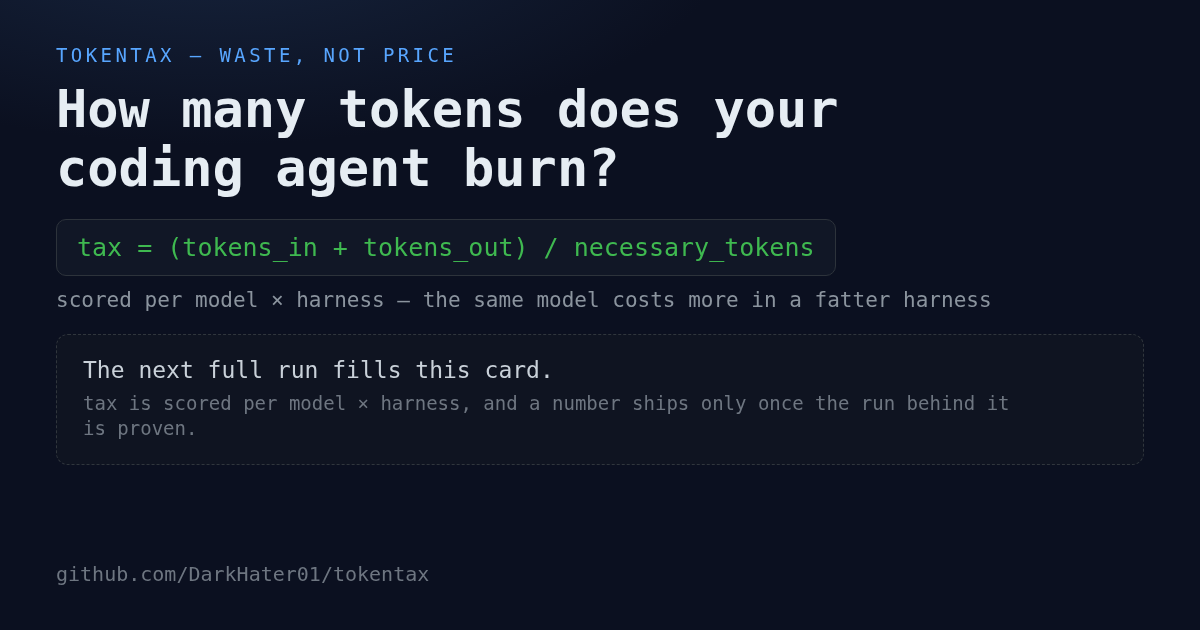
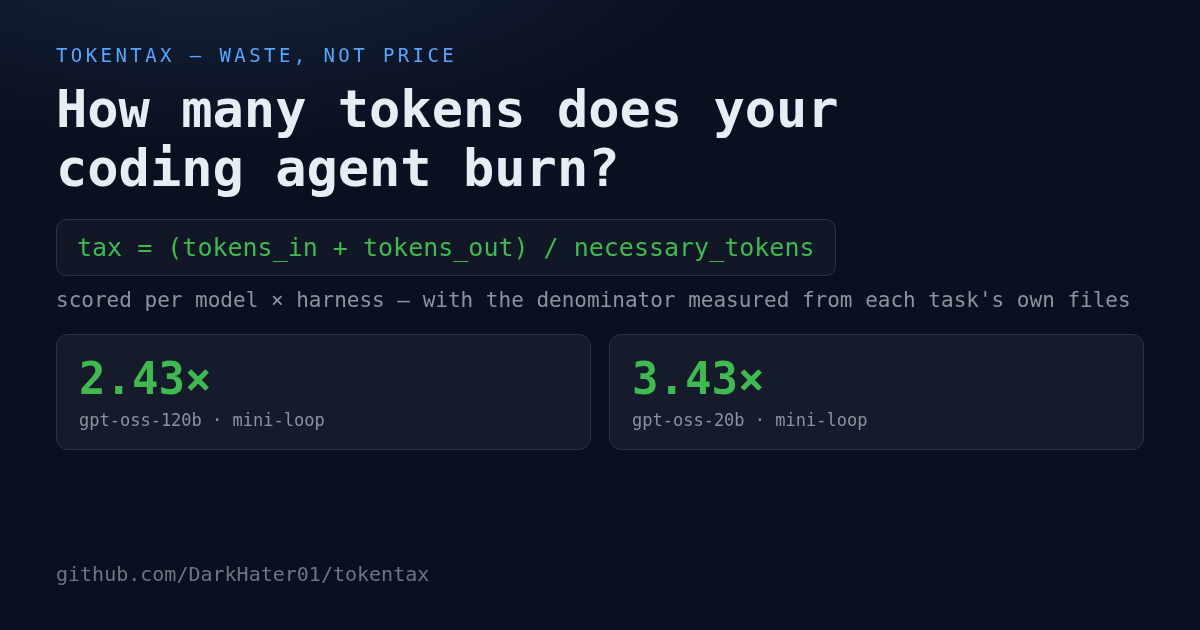
docs: the card and the post now carry the published run, and neither can invent one
The social card's rows used to be typed into social-data.json: the most shareable
artifact in the repo was the only one where a number could be handwritten. It now
reads data/results.json, the same file the README table and the badge come from, so
the card can only be stale, never invented. It shows the two published rows.

The launch post was written when nothing was scored. It now carries the finding with
the date on it -- 2.43x and 3.43x, i.e. 59% and 71% of the spend above the floor, and
a third of the small model's waste removed by the prompt alone -- and says the README
block wins if they drift. The harness FAQ no longer says "unknown because there is
one harness": it says what the second harness is, what one live run cost (10.5k
against 1.9k tokens), and why that is not a result yet -- the free tier's cap ran out
mid-measurement, which is exactly why the harness now drops throttled runs instead of
publishing them as model failures.

The readers section gained the honest ask: the harness axis needs ~630k tokens and
this repo runs on 200k/day.

diff --git a/docs/make-social.js b/docs/make-social.js
@@ -51,10 +51,31 @@ function rowsHtml(rows) {
   return `<div class="grid" style="grid-template-columns:repeat(${shown.length},1fr)">${cards}${more}</div>`;
 }
 
+// The card's numbers come from the same results file as the README table and the
+// badge. They used to be typed into social-data.json, which made the most shareable
+// artifact in the repo the only one where a number could be invented by hand.
+function publishedRows() {
+  const file = path.join(DIR, "..", "data", "results.json");
+  if (!fs.existsSync(file)) return [];
+  let data;
+  try {
+    data = JSON.parse(fs.readFileSync(file, "utf8"));
+  } catch {
+    return [];
+  }
+  return (Array.isArray(data.entries) ? data.entries : [])
+    .filter((e) => e?.vanilla && typeof e.vanilla.tax === "number")
+    .map((e) => ({
+      tax: `${e.vanilla.tax}\u00d7`,
+      model: String(e.model).split("/").pop(),
+      harness: String(e.harness),
+    }));
+}
+
 function render() {
   const data = JSON.parse(fs.readFileSync(path.join(DIR, "social-data.json"), "utf8"));
   const tpl = fs.readFileSync(path.join(DIR, "social.html"), "utf8");
-  const rows = Array.isArray(data.rows) ? data.rows : [];
+  const rows = publishedRows();
   return tpl
     .replace(/\{\{HEADLINE\}\}/g, esc(data.headline || "tokentax"))
     .replace(/\{\{ROWS\}\}/g, rowsHtml(rows));

diff --git a/docs/social.html b/docs/social.html
@@ -32,7 +32,7 @@
     <div class="tag">tokentax &mdash; waste, not price</div>
     <h1>{{HEADLINE}}</h1>
     <div class="def">tax = (tokens_in + tokens_out) / necessary_tokens</div>
-    <div class="note">scored per model &times; harness &mdash; the same model costs more in a fatter harness</div>
+    <div class="note">scored per model &times; harness &mdash; with the denominator measured from each task's own files</div>
     <div class="rows">{{ROWS}}</div>
     <div class="foot">github.com/DarkHater01/tokentax</div>
   </div>

diff --git a/docs/launch-post.md b/docs/launch-post.md
@@ -36,6 +36,22 @@ Published numbers live only in the machine-generated blocks in the [README](../R
 the leaderboard between the `LEADERBOARD` markers, and the labelled offline
 fixture. I am not retyping a number here. If you want one, read the README.
 
+## What it found so far (2026-10-18)
+
+Two models, five tasks, three repetitions, one lean harness, and a denominator
+rebuilt from each task's own bytes:
+
+- `openai/gpt-oss-120b` — `pass@1` 0.93, `tax` **2.43×**. In plain words: of
+  everything it spent, **59% was above the floor** the task required.
+- `openai/gpt-oss-20b` — `pass@1` 1.00, `tax` **3.43×**. That is **71%** above the
+  floor — a model can pass every task and still be the wasteful one.
+- Same models, told to write the least code that satisfies the spec: 2.17× and
+  2.22×. **A third of the small model's waste was wording**, not capability: the
+  harness's prompt made the difference.
+
+The README block is regenerated every Monday and is the source of truth; the numbers
+in this paragraph are dated, not canonical. If they have moved, the table wins.
+
 ## How to reproduce it
 
 The whole offline demo — no API key, no network — is this one paste:
@@ -57,10 +73,13 @@ needs a provider key and is `node runner/run.js` then `node runner/score.js`; se
 
 ## What it does NOT claim
 
-- **Not a demonstrated harness axis.** Only `mini-loop` is implemented
-  ([`runner/harnesses/`](../runner/harnesses)). `opencode-headless` and
-  `claude-code-headless` are on the roadmap. The thesis is `model × harness`; the
-  axis is the point and it is not built yet.
+- **Not yet a demonstrated harness axis.** `mini-loop` is scored; the second harness
+  (`opencode-headless`, the real OpenCode CLI headless inside its own image, usage read
+  from the CLI's own database) is implemented, hardened and verified live, but **not
+  scored**: it costs ~10.5k tokens per run against the lean loop's ~1.9k, so the
+  five-task run is ~630k tokens and the free tier allows 200k per day shared with
+  everything else. The numbers are missing for a boring reason — money — and the README
+  block says so instead of shipping one harness and calling it an axis.
 - **Not exact across providers.** The denominator is estimated at four characters
   per token while the numerator uses each provider's real count. `tax` compares
   models closely, not exactly, and a model with a more verbose tokenizer is
@@ -83,7 +102,8 @@ workspace could decide a pass. The fate of an unproven number in a benchmark is 
 be withdrawn, and it was. The `6.6×` headline is retired; do not cite it. `data/`
 was cleared. The fix — grading writes the report outside the job and requires
 pytest to have exited `0` with a report that says a suite ran — is pinned down by
-`runner/test_sandbox.js`. The next full run republishes the table automatically.
+`runner/test_sandbox.js`. The block at the top of the README is the run that
+republished it, with smaller and better numbers than the retired one.
 Honesty is the product here. A faked or hand-typed number kills the repo.
 
 ## What I want from readers
@@ -93,6 +113,11 @@ Honesty is the product here. A faked or hand-typed number kills the repo.
 2. **Tell me the metric is wrong.** If `necessary_tokens` for a task is too high or
    too low, open a PR against `tasks/<id>/reference/trajectory.json`. The
    denominator is the whole product; a contestable denominator is the credibility.
+3. **Spare API credit.** The harness axis needs ~630k tokens to score five tasks with
+   a second harness, and this repo runs on a free tier of 200k/day. If you have credit
+   burning a hole in an OpenRouter, Together or Groq account, that is the single
+   fastest way to turn the thesis into a table. Or run it yourself:
+   `runner/config.harness.json` and `mode=harness` exist for exactly this.
 
 ## FAQ
 
@@ -109,9 +134,15 @@ hand-written part is the minimal step list, which is in the repo for exactly thi
 argument.
 
 **Which harness wins?**
-Unknown, because there is only one harness (`mini-loop`) today. I am not going to
-rank a field of one. Ask again when `opencode-headless` and `claude-code-headless`
-land.
+Not measured yet, and I am not going to invent the ranking. The second harness is
+implemented and verified end to end — it drove the real CLI to read and edit the
+workspace, and the counts come out of the CLI's own database — but scoring five tasks
+with it is ~630k tokens against a free allowance of 200k/day. One live run already
+told me the part that matters for the thesis: on the same task it spent **10.5k tokens
+where the lean loop spent 1.9k**, and the free tier's daily cap ran out mid-measurement
+— which is why the next sentence is not "and it failed": a throttled run is evidence of
+nothing, and the harness now drops those runs instead of publishing them as a model
+failure. That is one run, not a result.
 
 ## Comments I expect
 
